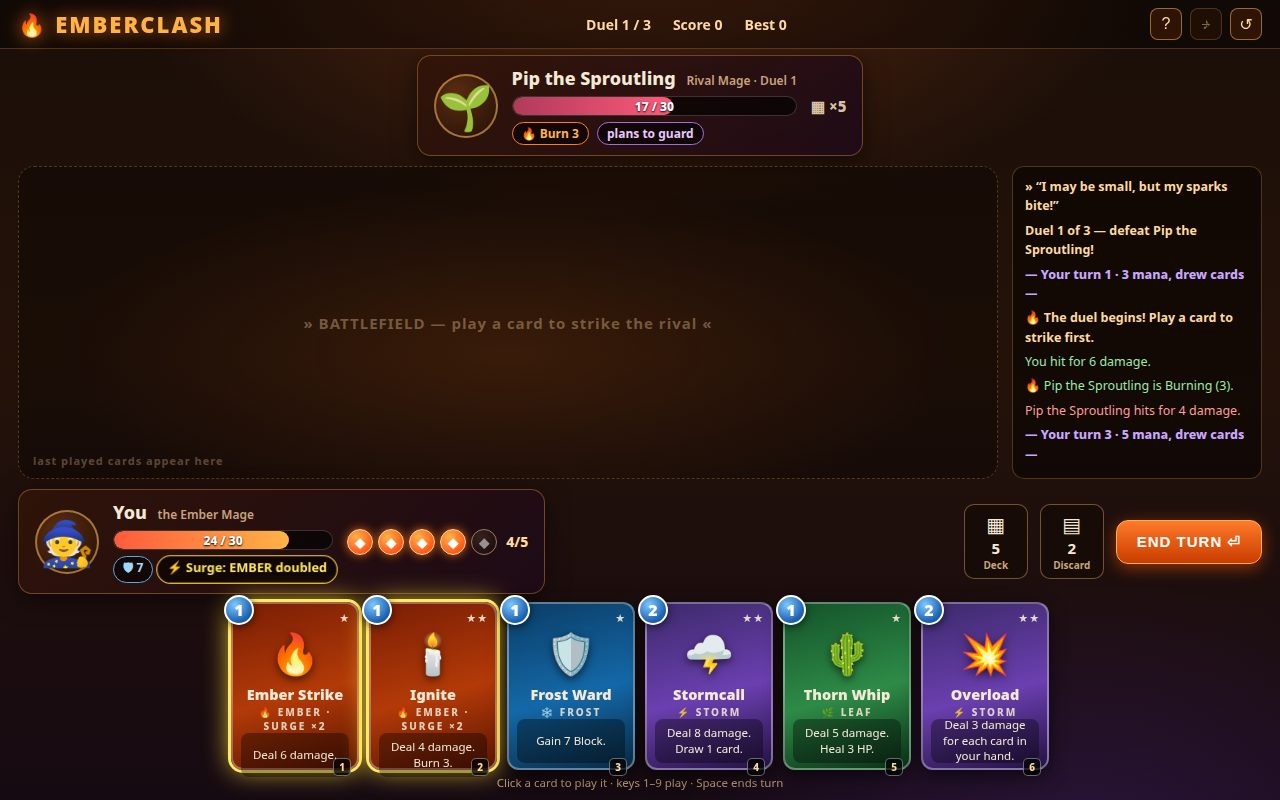
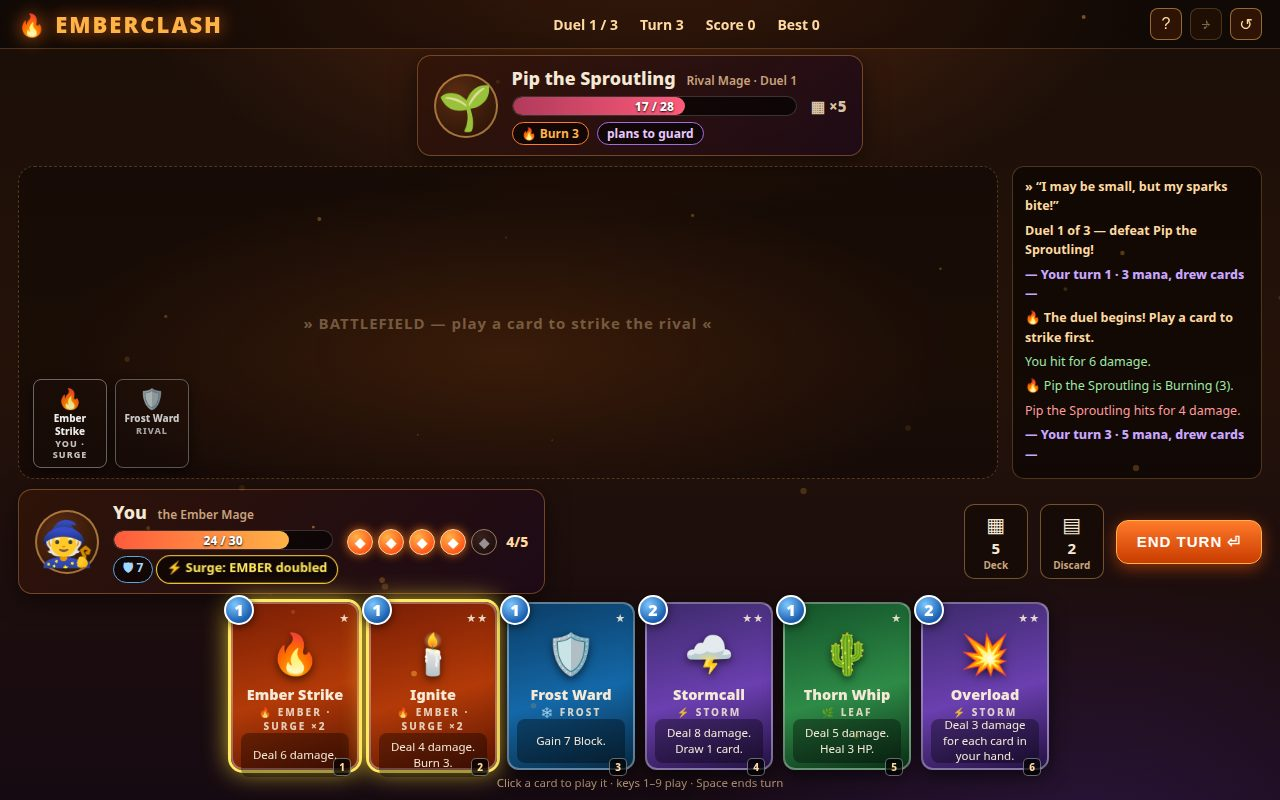
Batch C: balance pass (Pip 28, Kael 32, Ashen 40, +12 HP between duels), ambient ember particles, turn counter, persisted mute, staged history strip, draft Rest & Mend option

diff --git a/game/src/fx.js b/game/src/fx.js
@@ -2,7 +2,6 @@
 const canvas = document.getElementById('fx');
 const ctx2d = canvas.getContext('2d');
 let particles = [];
-let raf = null;
 
 function sizeCanvas() {
   canvas.width = canvas.clientWidth * devicePixelRatio;
@@ -10,24 +9,6 @@ function sizeCanvas() {
 }
 window.addEventListener('resize', sizeCanvas);
 sizeCanvas();
-
-function tick() {
-  ctx2d.clearRect(0, 0, canvas.width, canvas.height);
-  const now = performance.now();
-  particles = particles.filter((p) => now - p.born < p.life);
-  for (const p of particles) {
-    const age = (now - p.born) / p.life;
-    const alpha = 1 - age;
-    ctx2d.globalAlpha = alpha;
-    ctx2d.fillStyle = p.color;
-    ctx2d.beginPath();
-    ctx2d.arc(p.x + p.vx * age * 90, p.y + p.vy * age * 90, p.r * (1 - age * 0.5), 0, Math.PI * 2);
-    ctx2d.fill();
-  }
-  ctx2d.globalAlpha = 1;
-  if (particles.length > 0) raf = requestAnimationFrame(tick);
-  else { raf = null; ctx2d.clearRect(0, 0, canvas.width, canvas.height); }
-}
 
 export function burst(x, y, color, count = 26) {
   const rect = canvas.getBoundingClientRect();
@@ -43,13 +24,56 @@ export function burst(x, y, color, count = 26) {
       color, born: performance.now(), life: 500 + Math.random() * 500,
     });
   }
-  if (!raf) raf = requestAnimationFrame(tick);
 }
 
 export function burstAtElement(el, color, count = 26) {
   const r = el.getBoundingClientRect();
   burst(r.left + r.width / 2, r.top + r.height / 2, color, count);
 }
+
+// ---------- ambient embers: slow sparks drifting up the arena, always on ----------
+const embers = [];
+for (let i = 0; i < 26; i++) {
+  embers.push({
+    x: Math.random(), y: Math.random(),
+    r: 1 + Math.random() * 2.2, speed: 0.008 + Math.random() * 0.02,
+    sway: Math.random() * Math.PI * 2, alpha: 0.15 + Math.random() * 0.35,
+  });
+}
+let ambientRaf = null;
+function ambientTick() {
+  const w = canvas.width, h = canvas.height;
+  ctx2d.clearRect(0, 0, w, h);
+  const now = performance.now() / 1000;
+  for (const e of embers) {
+    e.y -= e.speed / 60;
+    if (e.y < -0.02) { e.y = 1.02; e.x = Math.random(); }
+    const x = (e.x + Math.sin(now * 0.6 + e.sway) * 0.012) * w;
+    const y = e.y * h;
+    ctx2d.globalAlpha = e.alpha * (0.7 + 0.3 * Math.sin(now * 2 + e.sway));
+    ctx2d.fillStyle = '#ffb347';
+    ctx2d.beginPath();
+    ctx2d.arc(x, y, e.r * devicePixelRatio, 0, Math.PI * 2);
+    ctx2d.fill();
+  }
+  ctx2d.globalAlpha = 1;
+  // keep burst particles on top of the ambient layer
+  if (particles.length > 0) {
+    const t = performance.now();
+    particles = particles.filter((p) => t - p.born < p.life);
+    for (const p of particles) {
+      const age = (t - p.born) / p.life;
+      ctx2d.globalAlpha = 1 - age;
+      ctx2d.fillStyle = p.color;
+      ctx2d.beginPath();
+      ctx2d.arc(p.x + p.vx * age * 90, p.y + p.vy * age * 90, p.r * (1 - age * 0.5), 0, Math.PI * 2);
+      ctx2d.fill();
+    }
+    ctx2d.globalAlpha = 1;
+  }
+  ambientRaf = requestAnimationFrame(ambientTick);
+}
+ambientTick();
 
 /** A floating "-12" / "+8" label over a fighter card. */
 export function floatText(anchorEl, text, kind = '') {

diff --git a/game/src/game.js b/game/src/game.js
@@ -43,7 +43,7 @@ export class Game {
     this.foeTauntedLow = false;
     this.playerTauntedLow = false;
     this.lastPlayed = [];
-    this.playerHp = this.duelIndex === 0 ? 30 : Math.min(30, this.playerHp + 8);
+    this.playerHp = this.duelIndex === 0 ? 30 : Math.min(30, this.playerHp + 12);
     this.playerMax = 30;
     this.playerBlock = 0;
     this.playerBurn = 0;
@@ -374,7 +374,7 @@ export class Game {
     sfx.draft();
     this.showOverlay(`
       <h2>🏆 Duel ${this.duelIndex + 1} won! +${gained} score</h2>
-      <p>${this.opp.name} falls. You catch your breath (+8 HP) and choose <b>one new card</b> for your deck before the next duel.</p>
+      <p>${this.opp.name} falls. You catch your breath (+12 HP) and choose <b>one new card</b> for your deck before the next duel.</p>
       <div class="draftRow" id="draftRow"></div>
       <p class="sub">Your deck: ${this.deckIds.length} cards → ${this.deckIds.length + 1}</p>
     `);
@@ -393,6 +393,29 @@ export class Game {
       };
       row.appendChild(el);
     });
+    // Fourth choice: rest instead of drafting — mend wounds, take no card.
+    const rest = document.createElement('div');
+    rest.className = 'card el-leaf';
+    rest.innerHTML = `
+      <div class="cost">–</div>
+      <div class="rarity">★</div>
+      <div class="cicon">💚</div>
+      <div class="cname">Rest &amp; Mend</div>
+      <div class="celem">🌿 LEAF</div>
+      <div class="ctext">Heal 12 HP now. Take no new card.</div>
+    `;
+    rest.onclick = () => {
+      const real = Math.min(12, this.playerMax - this.playerHp);
+      this.playerHp += real;
+      sfx.heal();
+      this.log('sys', `💚 You rest and mend ${real} HP.`);
+      this.hideOverlay();
+      this.duelIndex += 1;
+      this.startDuel();
+      this.showBanner(`DUEL ${this.duelIndex + 1}`);
+      this.render();
+    };
+    row.appendChild(rest);
   }
 
   // ---------- rendering ----------

diff --git a/game/src/opponents.js b/game/src/opponents.js
@@ -4,7 +4,7 @@ import { cardById } from './cards.js';
 export const OPPONENTS = [
   {
     id: 'pip', name: 'Pip the Sproutling', title: 'Rival Mage · Duel 1',
-    avatar: '🌱', hp: 30, aggression: 0.35, guardBias: 0.4,
+    avatar: '🌱', hp: 28, aggression: 0.3, guardBias: 0.4,
     deck: ['ember-strike', 'cinder-jab', 'cinder-jab', 'cinder-jab',
            'frost-ward', 'frost-ward', 'frost-ward', 'leaf-mend', 'thorn-whip', 'spark-volley'],
     taunt: '“I may be small, but my sparks bite!”',
@@ -13,7 +13,7 @@ export const OPPONENTS = [
   },
   {
     id: 'kael', name: 'Kael the Ember Knight', title: 'Rival Mage · Duel 2',
-    avatar: '♞', hp: 34, aggression: 0.55, guardBias: 0.35,
+    avatar: '♞', hp: 32, aggression: 0.5, guardBias: 0.35,
     deck: ['ember-strike', 'ember-strike', 'flame-lash', 'flame-lash', 'ignite',
            'frost-ward', 'glacial-wall', 'spark-volley', 'stormcall', 'leaf-mend',
            'thorn-whip', 'cinder-jab', 'mana-siphon', 'overload'],
@@ -23,7 +23,7 @@ export const OPPONENTS = [
   },
   {
     id: 'ashen', name: 'Queen Ashenvale', title: 'Rival Mage · Final Duel',
-    avatar: '♛', hp: 42, aggression: 0.65, guardBias: 0.3,
+    avatar: '♛', hp: 40, aggression: 0.6, guardBias: 0.3,
     deck: ['inferno', 'inferno', 'flame-lash', 'ignite', 'ignite', 'meteor',
            'glacial-wall', 'deep-freeze', 'stormcall', 'chain-lightning',
            'bloom', 'spore-cloud', 'ember-strike', 'frost-ward', 'blizzard', 'mana-siphon'],

diff --git a/game/src/main.js b/game/src/main.js
@@ -65,7 +65,7 @@ if (shot) {
     game.phase = 'over';
     game.duelIndex = 2;
     game.opp = opponentByIndex(2);
-    game.foeMax = 42;
+    game.foeMax = 40;
     game.foeHp = 0;
     game.score = 642;
     game.stats.damageDealt = 118;
